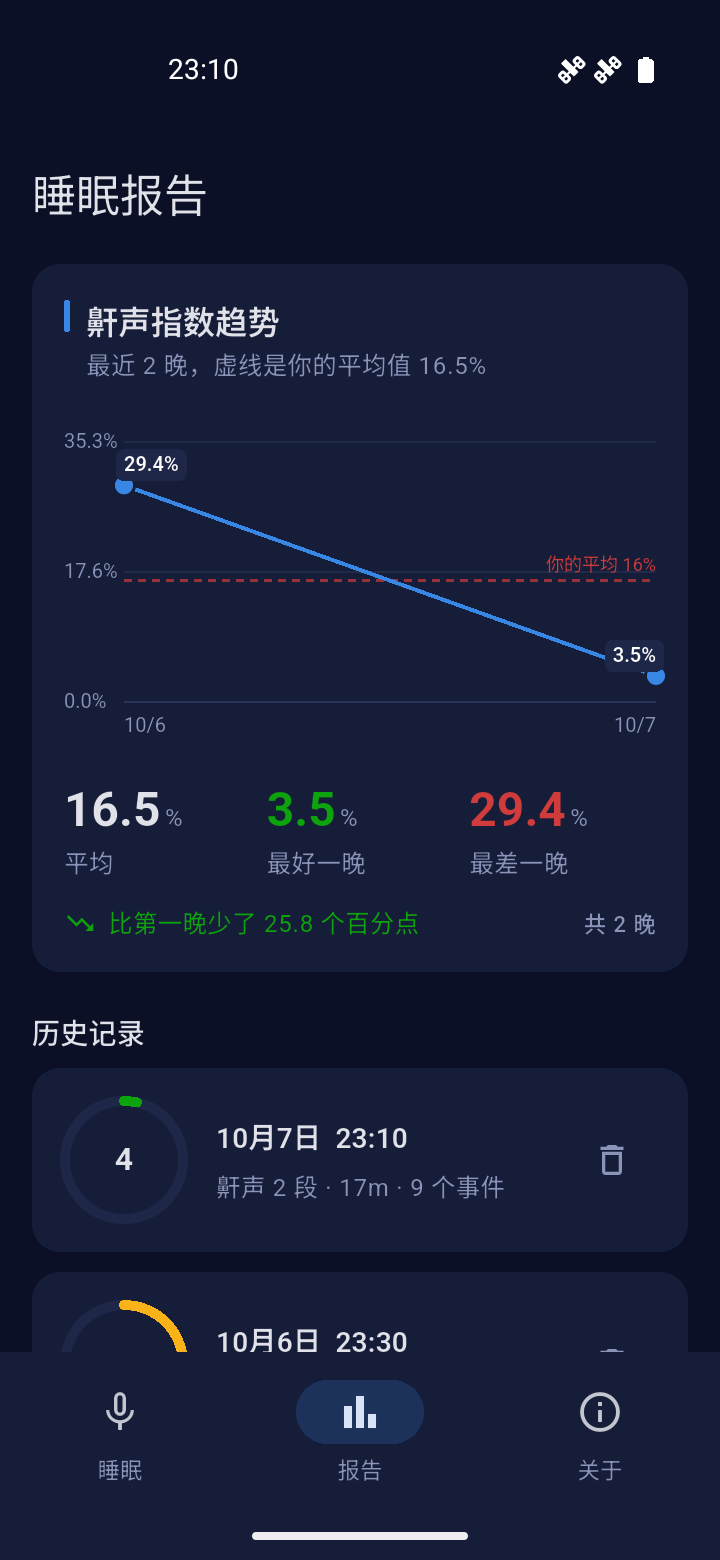
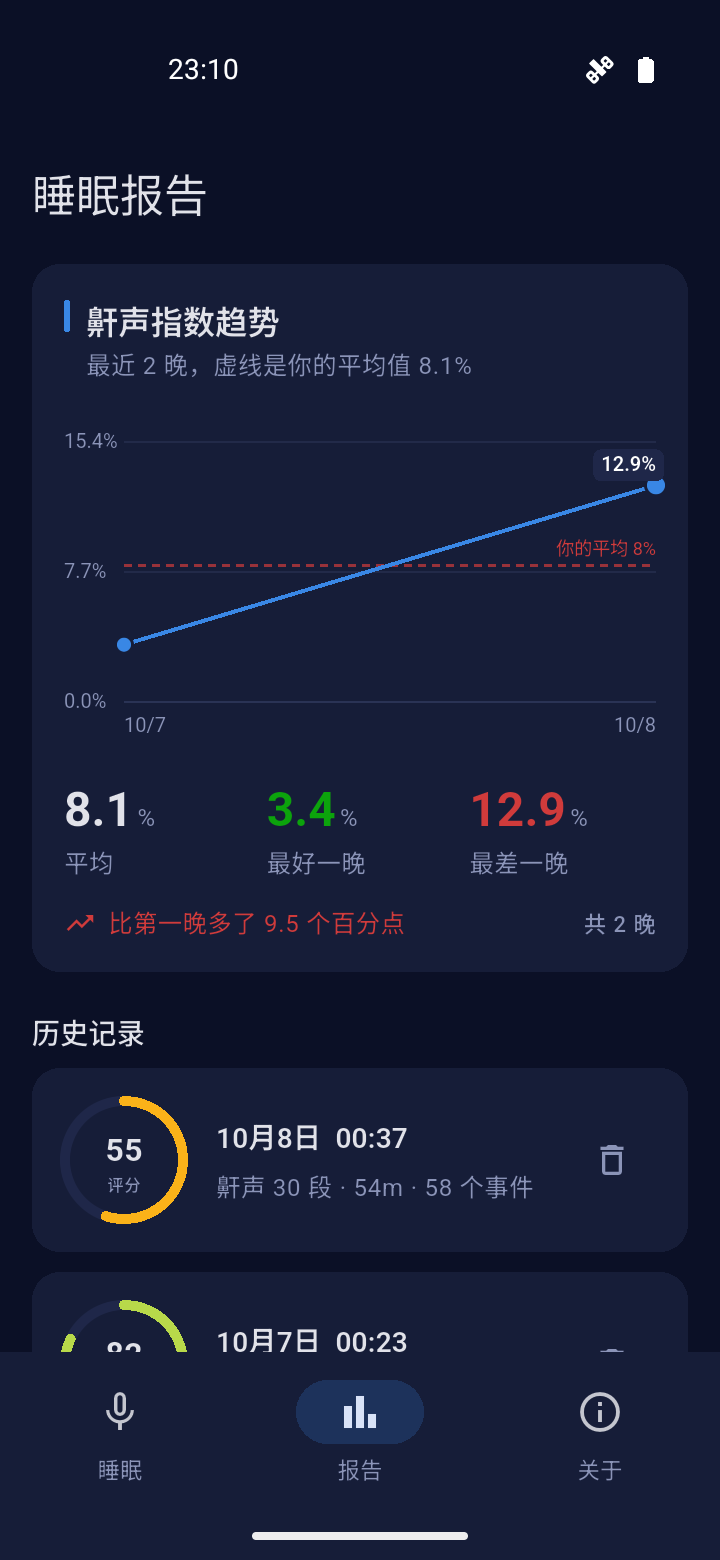
docs: 更新报告列表截图，圆环现在显示评分

diff --git a/README.md b/README.md
@@ -12,7 +12,7 @@
 
 **文档站**：<https://mygithub.sixiangjia.de/sleep-secret/>（[使用指南](https://mygithub.sixiangjia.de/sleep-secret/guide/) · [看懂报告](https://mygithub.sixiangjia.de/sleep-secret/report/) · [数据与隐私](https://mygithub.sixiangjia.de/sleep-secret/privacy/)）
 
-<img src="docs/screenshots/1-recording-idle.png" width="170" alt="录音页待机：月亮睁着眼"> <img src="docs/screenshots/2-recording-active.png" width="170" alt="录音中：月亮睡着了，飘着 Z"> <img src="docs/screenshots/3-reports.png" width="170" alt="报告列表与鼾声指数趋势"> <img src="docs/screenshots/4-report-detail.png" width="170" alt="单晚报告：评分、鼾声指数，以及顶部的鼾声展示门槛"> <img src="docs/screenshots/6-snore-filter.png" width="170" alt="鼾声展示门槛拉到 80%：整份报告跟着变，并写着「还有 19 段更低把握的鼾声没有显示」"> <img src="docs/screenshots/5-detailed-view.png" width="170" alt="详细视图（单独一页）：模型给出的原始 AudioSet 标签与中文对照">
+<img src="docs/screenshots/1-recording-idle.png" width="170" alt="录音页待机：月亮睁着眼"> <img src="docs/screenshots/2-recording-active.png" width="170" alt="录音中：月亮睡着了，飘着 Z"> <img src="docs/screenshots/3-reports.png" width="170" alt="报告列表与鼾声指数趋势（圆环是评分）"> <img src="docs/screenshots/4-report-detail.png" width="170" alt="单晚报告：评分、鼾声指数，以及顶部的鼾声展示门槛"> <img src="docs/screenshots/6-snore-filter.png" width="170" alt="鼾声展示门槛拉到 80%：整份报告跟着变，并写着「还有 19 段更低把握的鼾声没有显示」"> <img src="docs/screenshots/5-detailed-view.png" width="170" alt="详细视图（单独一页）：模型给出的原始 AudioSet 标签与中文对照">
 
 <br>
 
@@ -59,7 +59,7 @@
   0 就是全部显示）。**只影响显示**——录音和分析一个字节都没动，被筛掉的鼾声还在库里、
   片段也还在，拖回 0 就全回来了。
   ⚠ 筛掉多少会写在滑块下面（「还有 N 段更低把握的鼾声没有显示」）：报告变干净的原因
-  必须看得见，不然分不清「今晚真安静」和「被筛掉了」。**报告列表里的鼾声指数和趋势
+  必须看得见，不然分不清「今晚真安静」和「被筛掉了」。**报告列表里的评分和趋势
   也按同一个门槛算**（列表顶部会注明），否则同一晚在两处显示两个数。
   （这跟早先删掉的那道固定置信度门控不是一回事：那道是**分析时**替所有人丢窗口，
   实测在真实素材上拦截数为 0、依据还是一批合成白噪声；这个在**展示层**、默认不筛、
